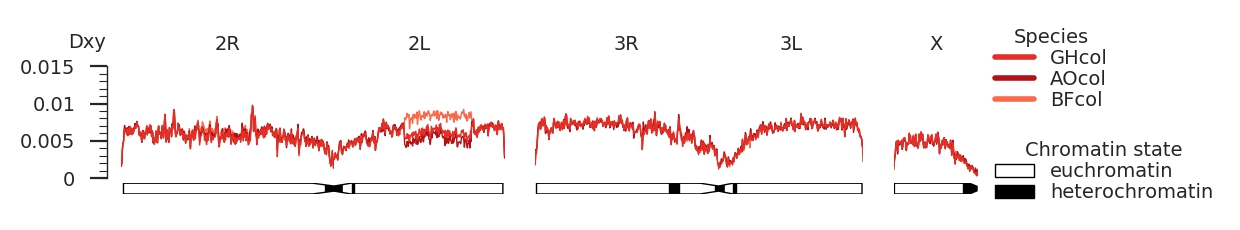
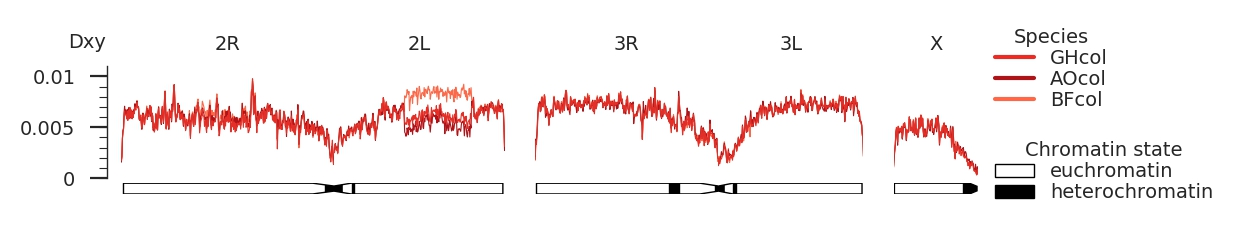
Created new plots, including a combined plot. Have not yet corrected the Dxy calculation as waiting to see if we should ignore males

diff --git a/notebooks/refdiff/refdiff_phase2_plots.py b/notebooks/refdiff/refdiff_phase2_plots.py
@@ -7,7 +7,6 @@ sns.set_context('paper')
 sns.set_style('white')
 sns.set_style('ticks')
 rcParams = plt.rcParams
-rcParams['font.family'] = 'sans-serif'
 _font_size = 7
 rcParams['font.size'] = _font_size
 rcParams['figure.titlesize'] = _font_size
@@ -30,7 +29,7 @@ rcParams['figure.figsize'] = (4.85, 3)
 #rcParams['text.latex.unicode'] = True
 rcParams['text.usetex'] = False
 rcParams['font.family'] = 'sans-serif'
-rcParams['font.sans-serif'] = ['Arial']
+#rcParams['font.sans-serif'] = ['Arial']
 rcParams['mathtext.fontset'] = 'custom'
 rcParams['mathtext.tt'] = 'Courier New'
 rcParams['mathtext.rm'] = 'Arial'
@@ -151,14 +150,15 @@ for chrom in chroms:
 	dxy_by_window[chrom] = pd.read_csv('refdiff_phase2_' + chrom + '_table.csv', sep = '\t')
 
 # Now plot the dxy along the chromsomomes
-def plot_dxy(chrom, ax, dxy, pops=None, offset=5, legend_frameon=False, **kwargs):
+def plot_dxy(chrom, ax, dxy, pops=None, offset=5, legend_offset=0, legend_frameon=False, labely = True, **kwargs):
 	if chrom == '2R':
 		sns.despine(ax=ax, bottom=True, offset=offset)
-		ax.set_yticks([0, 0.005, 0.01, 0.015], minor=False)
-		ax.set_yticks(np.arange(0, 0.015, 0.001), minor=True)
-		ax.set_yticklabels([0, 0.005, 0.01, 0.015])
-		ax.set_ylabel('Dxy', ha='left', va='top', rotation=0)
+		ax.set_yticks([0, 0.005, 0.01], minor=False)
+		ax.set_yticks(np.arange(0, 0.011, 0.001), minor=True)
+		ax.set_yticklabels([0, 0.005, 0.01])
 		ax.yaxis.set_label_coords(-0.25, 1.3)
+		if labely:
+			ax.set_ylabel('Dxy', ha='left', va='top', rotation=0)
 	else:
 		sns.despine(ax=ax, left=True, bottom=True, offset=offset)
 		ax.set_yticks([])
@@ -173,22 +173,26 @@ def plot_dxy(chrom, ax, dxy, pops=None, offset=5, legend_frameon=False, **kwargs
 	# Create the handles for each population
 	h = []
 	for p in pops:
-		h.append(ax.plot(x, dxy[chrom][p], color=colours[p], label = p))
+		h.append(ax.plot(x, dxy[chrom][p], color=colours[p], label = p, lw = 0.4))
 
 	# Draw the legend
 	if chrom == 'X':
+		if labely:
+			legend_title = 'Species'
+		else:
+			legend_title = None
 		handles = []
 		for this_h in h[::-1]:
-			handles.append(plt.plot([0, 1], [0, 0], color = this_h[0].get_c(), lw=2, label=this_h[0].get_label())[0])
-		ax.legend(handles=handles, bbox_to_anchor=(1, 1.5), loc='upper left', frameon=legend_frameon, fancybox=False, 
-				  title='Species', labelspacing=.1);
+			handles.append(plt.plot([0, 1], [0, 0], color = this_h[0].get_c(), lw=1.5, label=this_h[0].get_label())[0])
+		ax.legend(handles=handles, bbox_to_anchor=(1, 1.5 + legend_offset), loc='upper left', frameon=legend_frameon, fancybox=False, 
+				  title=legend_title, labelspacing=.1);
 
-	ax.set_ylim(0, 0.015)
+	ax.set_ylim(0, 0.011)
 	ax.set_xlim(0, max(x))
 	ax.set_xticks([])
 	ax.set_title(chrom)
 
-def plot_heterochromatin(chrom, ax, clip_patch, tbl_chr, genome, colors=None, legend_frameon=False, **kwargs):
+def plot_heterochromatin(chrom, ax, clip_patch, tbl_chr, genome, colors=None, legend_offset = 0, legend_frameon=False, **kwargs):
 	if colors is None:
 		colors = {'PE': 'w', 'IH': 'k', 'CH': 'k'}
 
@@ -208,15 +212,35 @@ def plot_heterochromatin(chrom, ax, clip_patch, tbl_chr, genome, colors=None, le
 		a = plt.Rectangle((0, 0.2), 1, 1, ec='k', fc='w', label='euchromatin')
 		b = plt.Rectangle((0, 0.2), 1, 1, ec='k', fc='k', label='heterochromatin')
 		handles = [a, b]
-		ax.legend(handles=handles, bbox_to_anchor=(1, 2), loc='center left', frameon=legend_frameon, 
+		ax.legend(handles=handles, bbox_to_anchor=(1, 2 + legend_offset), loc='center left', frameon=legend_frameon, 
 				  fancybox=True, labelspacing=.1, title='Chromatin state');
 
 
-def fig_assemble(populations=None, fw=4.3, fn=None, dpi=150, save_dpi=200, legend_frameon=False, fh=0.8):
-	figsize = fw, fh
-	fig = plt.figure(figsize=(fw, fh), dpi=dpi)
-	fig_linear_genome(plot_dxy, phase2_ar1.genome_agamp3, chromomsomes = chroms, fig=fig, bottom=0.1, height=.7, legend_frameon=legend_frameon, dxy = dxy_by_window, pops = populations)
-	fig_linear_genome(plot_heterochromatin, phase2_ar1.genome_agamp3, fig=fig, bottom=0, height=.07, legend_frameon=legend_frameon, clip_patch_kwargs=dict(edgecolor='k', lw=.5), tbl_chr = tbl_chromatin)
+def fig_assemble(populations, fw=4.3, fn=None, dpi=150, save_dpi=200, legend_frameon=False):
+	# What we do now depends on whether populations was a list of lists
+	if type(populations[0]) == list:
+		populations = populations[::-1]
+		# Calculate the height of each plot such that the heterochromatin plot is 7 times smaller than the others
+		genploth = 1 / (len(populations) + 1/7)
+		hetploth = genploth / 7
+		fh = 0.7*int(len(populations)) + 0.1
+		figsize = fw, fh
+		fig = plt.figure(figsize=(fw, fh), dpi=dpi)
+		for i, pl in enumerate(populations):
+			b = hetploth + i * genploth
+			h = genploth * 0.9
+			if i == (len(populations)-1):
+				ylab = True
+			else:
+				ylab = False
+			fig_linear_genome(plot_dxy, phase2_ar1.genome_agamp3, chromomsomes = chroms, fig=fig, bottom=b, height=h, legend_offset = -0.6, legend_frameon=legend_frameon, labely = ylab, dxy = dxy_by_window, pops = pl)
+		fig_linear_genome(plot_heterochromatin, phase2_ar1.genome_agamp3, fig=fig, bottom=0, height=hetploth/1.5, legend_offset=-3, legend_frameon=legend_frameon, clip_patch_kwargs=dict(edgecolor='k', lw=.5), tbl_chr = tbl_chromatin)
+	else:
+		fh = 0.8
+		figsize = fw, fh
+		fig = plt.figure(figsize=(fw, fh), dpi=dpi)
+		fig_linear_genome(plot_dxy, phase2_ar1.genome_agamp3, chromomsomes = chroms, fig=fig, bottom=0.1, height=.7, legend_frameon=legend_frameon, dxy = dxy_by_window, pops = populations)
+		fig_linear_genome(plot_heterochromatin, phase2_ar1.genome_agamp3, fig=fig, bottom=0, height=.07, legend_frameon=legend_frameon, clip_patch_kwargs=dict(edgecolor='k', lw=.5), tbl_chr = tbl_chromatin)
 
 	if fn:
 		if re.search('\.eps', fn):
@@ -229,4 +253,19 @@ fig_assemble(['BFcol', 'AOcol', 'GHcol'], fn = 'refdiff_phase2_col.jpg')
 fig_assemble(['CMgam', 'UGgam', 'BFgam'], fn = 'refdiff_phase2_gam.jpg')
 fig_assemble(['GM', 'GW', 'KE'], fn = 'refdiff_phase2_unk.jpg')
 fig_assemble(['An. gambiae', 'An. coluzzii'], fn = 'refdiff_phase2_species.jpg')
+fig_assemble(['CMgam', 'KE'], fn = 'refdiff_phase2_KE_vs_CM.jpg')
+fig_assemble(['AOcol', 'GM', 'GW'], fn = 'refdiff_phase2_GMGW_vs_AOcol.jpg')
+fig_assemble(['An. gambiae', 'An. coluzzii', 'GM'], fn = 'refdiff_phase2_GM_vs_species.jpg')
+fig_assemble(['An. gambiae', 'An. coluzzii', 'GW'], fn = 'refdiff_phase2_GW_vs_species.jpg')
+fig_assemble(['An. gambiae', 'An. coluzzii', 'KE'], fn = 'refdiff_phase2_KE_vs_species.jpg')
+
+# And now the full combined figure
+fig_assemble([['An. gambiae', 'An. coluzzii'], 
+              ['BFcol', 'AOcol', 'GHcol'], 
+              ['CMgam', 'UGgam', 'BFgam'],
+              ['An. gambiae', 'An. coluzzii', 'GM'],
+              ['An. gambiae', 'An. coluzzii', 'GW'],
+              ['An. gambiae', 'An. coluzzii', 'KE']],
+              fn = 'refdiff_phase2_combined.jpg')
+
 
